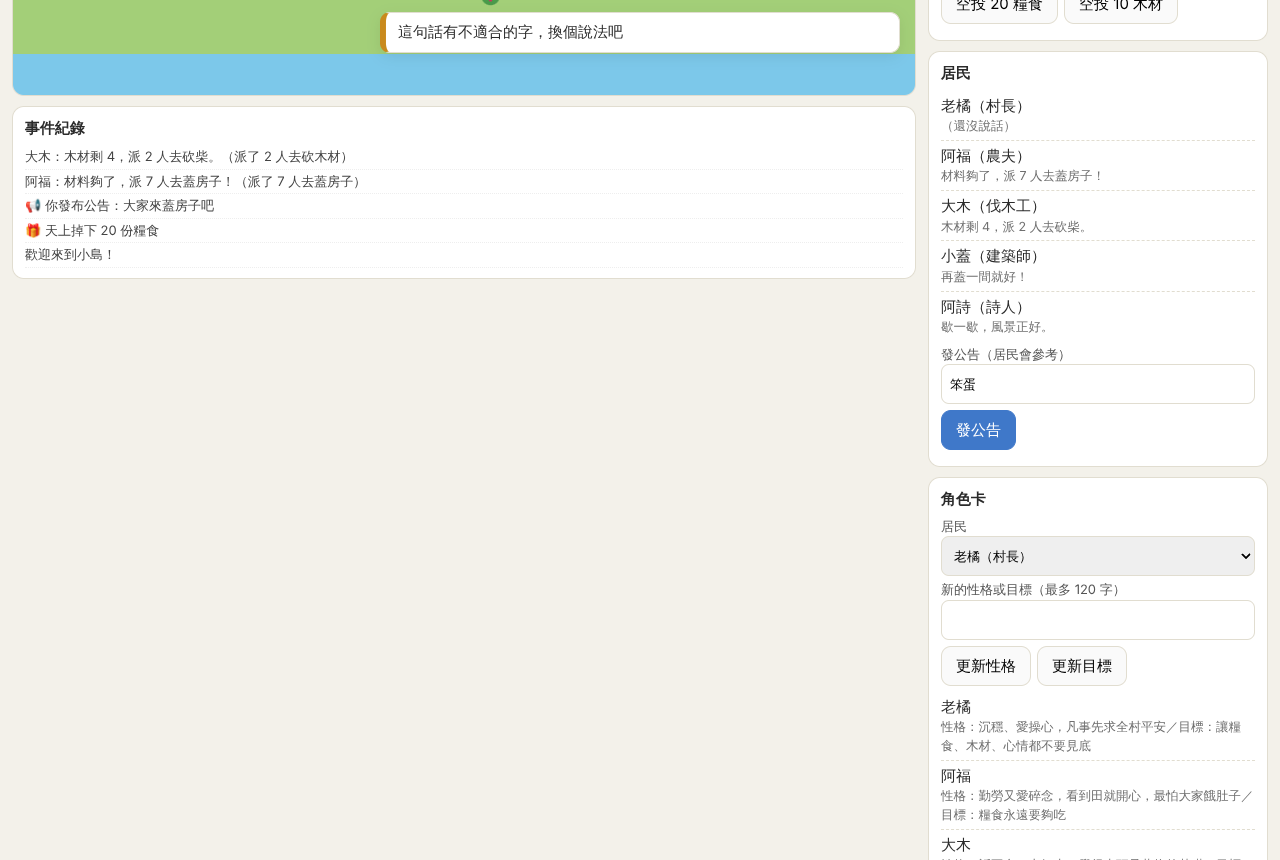
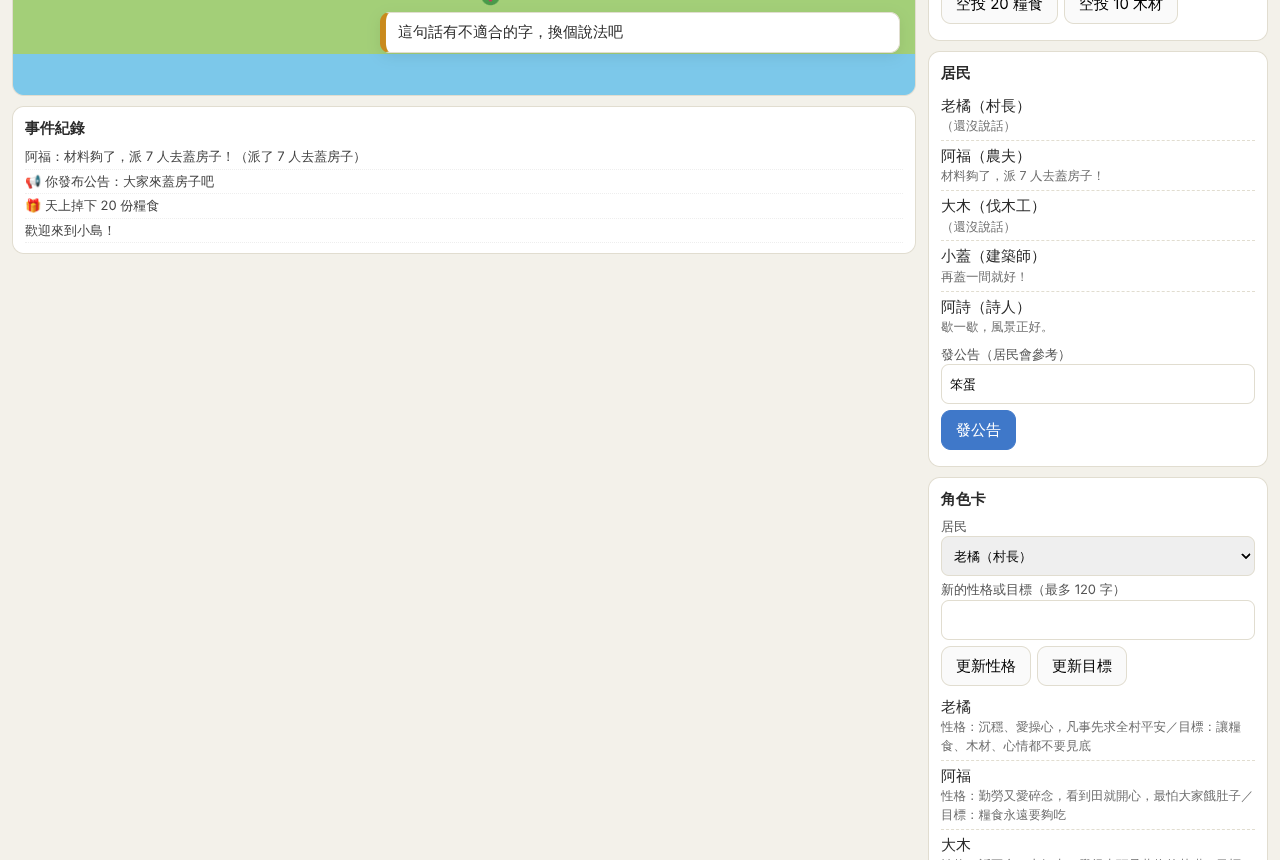
PR5（WP0b）：島嶼地圖成為預設；玩家移動（鍵盤、點地面）與地形碰撞、鏡頭跟隨、通用互動按鈕；居民的家、散步、打招呼
- src/shell/player.js：玩家移動、碰撞（沿岸滑動）、點到水裡時走到岸邊
- src/shell/input.js：方向鍵／WASD、點一下走過去（拖曳旋轉鏡頭不算）、空白鍵互動
- 外殼 HUD：走近有互動的實體就出現大按鈕（只靠 engine.interactionsFor），不能做時寫出原因
- render3d：鏡頭跟隨玩家（island.look.camera='overview' 時看全圖）、島上的家縮小、名牌不縮太小
- residents：家（home 實體）、在家附近散步、residents.greet（要走近才能打招呼）、居民位置存檔
- tests/e2e/island.e2e.mjs（6 項）：新的基準截圖

未修改 src/core。

Claude-Session: https://claude.ai/code/session_0121tRRF6aCKPvw8nQbVPqNZ

Changed region(s): [[0.0, 0.1512, 0.2812, 0.3023], [0.7188, 0.2419, 0.8438, 0.2721]]

diff --git a/src/modules/residents/index.js b/src/modules/residents/index.js
@@ -17,8 +17,8 @@ export default {
   requires: [],
   optional: ['social', 'quests-diary'],
   conflicts: [],
-  emits: ['residents:decided', 'residents:announced'],
-  config: { thinkEvery: 7, thinkJitter: 3, sayFor: 8, ring: null },
+  emits: ['residents:decided', 'residents:announced', 'residents:greeted'],
+  config: { thinkEvery: 7, thinkJitter: 3, sayFor: 8, ring: null, stroll: true, strollRadius: 2.5, greetDistance: 2 },
 
   init(ctx) {
     const { entities } = ctx.services;
@@ -37,8 +37,20 @@ export default {
     }));
     const byId = new Map(list.map((r) => [r.id, r]));
 
+    // 地形：居民散步時不走進水裡
+    const isl = ctx.data.island;
+    const walkable = (x, y) => {
+      const tx = Math.round(x), ty = Math.round(y);
+      if (!isl || tx < 0 || ty < 0 || tx >= isl.size.w || ty >= isl.size.h) return false;
+      return isl.legend[isl.terrain[ty][tx]]?.walkable !== false;
+    };
+
     function placeEntities() {
       entities.removeOwner('residents');
+      for (const r of list) {
+        const h = homes.get(r.id);
+        if (h) entities.add({ id: `home.${r.id}`, kind: 'home', owner: 'residents', ref: r.id, art: 'home', x: h.x, y: h.y, label: `${r.name}的家`, state: { roof: r.color } });
+      }
       list.forEach((r, i) => {
         // 站位：config.ring（圍成一圈，原型小鎮用）＞ 家門口 ＞ 出生點附近
         const ring = cfg.ring;
@@ -46,6 +58,7 @@ export default {
         const h = ring ? { x: ring.x + Math.cos(ang) * ring.rx, y: ring.y + Math.sin(ang) * ring.ry }
           : homes.has(r.id) ? { x: homes.get(r.id).x, y: homes.get(r.id).y + 0.9 }
           : { x: spawn.x + (i % 3) - 1, y: spawn.y + 1 + Math.floor(i / 3) };
+        r.anchor = { x: h.x, y: h.y };
         entities.add({ id: `resident.${r.id}`, kind: 'resident', owner: 'residents', ref: r.id, x: h.x, y: h.y, label: r.name,
           state: { color: r.color, role: r.role, look: r.look, model: r.model, say: '', busy: false } });
       });
@@ -53,6 +66,26 @@ export default {
     function syncEntity(r) {
       const e = entities.get(`resident.${r.id}`);
       if (e) { e.state.say = clock < r.sayUntil ? r.say : ''; e.state.busy = r.busy; }
+    }
+    // 散步：在家附近慢慢走（生活感）。打招呼後會停下來一會兒。
+    function stroll(r, dt) {
+      if (!cfg.stroll || cfg.ring || !r.anchor) return;
+      const e = entities.get(`resident.${r.id}`);
+      if (!e) return;
+      if (clock < (r.pauseUntil || 0)) return;
+      if (!r.walkTo) {
+        if (ctx.rng.chance(dt * 0.25)) {
+          for (let i = 0; i < 6; i++) {
+            const a = ctx.rng.next() * Math.PI * 2, d = ctx.rng.next() * cfg.strollRadius;
+            const x = r.anchor.x + Math.cos(a) * d, y = r.anchor.y + Math.sin(a) * d;
+            if (walkable(x, y)) { r.walkTo = { x, y }; break; }
+          }
+        }
+        return;
+      }
+      const dx = r.walkTo.x - e.x, dy = r.walkTo.y - e.y, dist = Math.hypot(dx, dy), step = 1.1 * dt;
+      if (dist <= step) { entities.move(e.id, r.walkTo.x, r.walkTo.y); r.walkTo = null; r.pauseUntil = clock + 2 + ctx.rng.next() * 4; }
+      else entities.move(e.id, e.x + (dx / dist) * step, e.y + (dy / dist) * step);
     }
     placeEntities();
 
@@ -92,12 +125,37 @@ export default {
         clock += dt;
         for (const r of list) {
           if (!r.busy && clock >= r.nextAt) think(r);
+          stroll(r, dt);
           syncEntity(r);
         }
       },
     });
 
     // ---------- 玩家指令 ----------
+    const near = (who) => {
+      const p = entities.get('player'), e = entities.get(`resident.${who}`);
+      return p && e ? Math.hypot(p.x - e.x, p.y - e.y) <= cfg.greetDistance : false;
+    };
+    const greetings = ctx.data.text?.dialogue?.greetings?.length ? ctx.data.text.dialogue.greetings : ['你好呀！'];
+    ctx.registerCommand({
+      id: 'residents.greet', label: '打招呼', description: '和身邊的居民打招呼',
+      params: { who: { type: 'ref', of: 'residents' } },
+      canRun: ({ who }) => (near(who) ? true : '走近一點才能打招呼'),
+      run({ who }) {
+        const r = byId.get(who);
+        const line = ctx.rng.chance(0.4) ? r.card.catchphrase || ctx.rng.pick(greetings) : ctx.rng.pick(greetings);
+        r.say = line; r.sayUntil = clock + cfg.sayFor;
+        r.walkTo = null; r.pauseUntil = clock + 6;
+        remember(r, 'talk', '玩家來跟我打招呼');
+        notify(`💬 ${r.name}：${line}`);
+        ctx.emit('residents:greeted', { who });
+        syncEntity(r);
+        return line;
+      },
+    });
+    ctx.registerEntityKind('resident', { label: '居民', interactions: [{ label: (e) => `和${e.label}打招呼`, command: 'residents.greet', args: (e) => ({ who: e.ref }) }] });
+    ctx.registerEntityKind('home', { label: '居民的家' });
+
     ctx.registerCommand({
       id: 'residents.announce', label: '發公告', description: '對全島居民說一句話，會影響他們接下來的想法',
       params: { text: { type: 'string', maxLen: 40, truncate: true, userText: true } },
@@ -153,7 +211,10 @@ export default {
     // ---------- 存檔 ----------
     ctx.registerSaveSlice({
       key: 'residents', version: 1,
-      serialize: () => ({ clock, list: list.map((r) => ({ id: r.id, card: r.card, memory: r.memory, say: r.say, sayUntil: r.sayUntil, nextAt: r.nextAt })) }),
+      serialize: () => ({ clock, list: list.map((r) => {
+        const e = entities.get(`resident.${r.id}`);
+        return { id: r.id, card: r.card, memory: r.memory, say: r.say, sayUntil: r.sayUntil, nextAt: r.nextAt, pos: e ? { x: e.x, y: e.y } : null };
+      }) }),
       deserialize: (d) => {
         clock = Number(d?.clock) || 0;
         for (const s of d?.list || []) {
@@ -162,6 +223,7 @@ export default {
           Object.assign(r.card, s.card || {});
           r.memory = Array.isArray(s.memory) ? s.memory.slice(-MEMORY_MAX) : [];
           r.say = s.say || ''; r.sayUntil = s.sayUntil || 0; r.nextAt = s.nextAt ?? r.nextAt;
+          if (Number.isFinite(s.pos?.x) && Number.isFinite(s.pos?.y) && walkable(s.pos.x, s.pos.y)) entities.move(`resident.${r.id}`, s.pos.x, s.pos.y);
         }
       },
     });

diff --git a/src/shell/boot.js b/src/shell/boot.js
@@ -9,6 +9,8 @@
 import { Engine, FrameworkError, validatePack, loadPack, parseOverrides, resolveEnabled, createCoreServices } from '../core/index.js';
 import { createStorage } from './storage.js';
 import { createPanelHost, toast, log, showFatal } from './ui.js';
+import { createPlayerController } from './player.js';
+import { attachInput } from './input.js';
 
 const $ = (id) => document.getElementById(id);
 const params = new URLSearchParams(location.search);
@@ -169,12 +171,13 @@ async function boot() {
   const { createRenderer2D } = await import('../render2d/index.js');
   const views = { '2d': createRenderer2D($('view2d'), { data, services }), '3d': null };
   const lowPower = params.get('lowpower') === '1' || (navigator.hardwareConcurrency || 8) <= 4;
+  const follow = data.island.look?.camera === 'overview' ? null : 'player';
   let current = '2d';
   const setView = async (name) => {
     if (name === '3d' && !views['3d']) {
       try {
         const { createRenderer3D } = await import('../render3d/index.js');
-        views['3d'] = await createRenderer3D($('view3d'), { data, services, lowPower });
+        views['3d'] = await createRenderer3D($('view3d'), { data, services, lowPower, follow });
       } catch (e) {
         log(`⚠ 3D 畫面無法啟動（${e.message || e}），已改用 2D。可能是這台裝置不支援 WebGL。`);
         name = '2d';
@@ -270,12 +273,53 @@ async function boot() {
   // 模組錯誤 → 事件紀錄（白話）；指令被拒 → 不吵，按鈕旁已有原因
   engine.events.on('core:dayStarted', (d) => { if (!d.offline) log(`🌅 第 ${d.day} 天開始了`); });
 
+  // 9.5 玩家操控與「互動」按鈕（只靠 engine.interactionsFor，新模組不必改這裡）
+  const player = createPlayerController({ entities, island: data.island });
+  const REACH = 2.2;
+  let hudKey = '', hudItems = [];
+  const nearbyInteractions = () => {
+    const p = entities.get('player');
+    if (!p) return [];
+    const out = [];
+    for (const e of entities.near(p.x, p.y, REACH, { filter: (x) => x.id !== 'player' })) {
+      for (const it of engine.interactionsFor(e.id)) out.push({ ...it, entity: e.id });
+      if (out.length >= 4) break;
+    }
+    return out.slice(0, 4);
+  };
+  const runInteraction = (it) => {
+    const r = engine.runCommand(it.command, it.args);
+    if (!r.ok) toast(r.reason || r.error, 'warn');
+    hudKey = ''; refreshPanels(true);
+  };
+  const refreshHud = () => {
+    hudItems = nearbyInteractions();
+    const key = JSON.stringify(hudItems.map((x) => [x.label, x.ok, x.reason]));
+    if (key === hudKey) return;
+    hudKey = key;
+    const hud = $('hud'); hud.textContent = '';
+    for (const it of hudItems) {
+      const b = document.createElement('button');
+      b.className = it.ok ? 'primary big' : 'big';
+      b.textContent = it.ok ? it.label : `${it.label}（${it.reason}）`;
+      b.onclick = () => runInteraction(it);
+      hud.append(b);
+    }
+  };
+  attachInput({
+    stage: $('stage'), player,
+    toWorld: (x, y) => views[current].toWorld(x, y),
+    onInteract: () => { const it = hudItems.find((x) => x.ok); if (it) runInteraction(it); },
+  });
+
   // 10. 主迴圈
-  let last = performance.now();
+  let last = performance.now(), lastHud = 0;
   const frame = (now) => {
     const dt = Math.min(0.1, (now - last) / 1000); last = now;
     let rem = time.advance(dt);
     while (rem > 0) { const s = Math.min(rem, 0.25); engine.update(s); rem -= s; }
+    player.update(dt);
+    if (now - lastHud > 200) { lastHud = now; refreshHud(); }
     try { views[current].render(dt); } catch (e) { debug.errors.push(e.message); }
     refreshPanels();
     if (time.elapsed - lastSave > AUTOSAVE_SEC) saveNow();
@@ -285,7 +329,7 @@ async function boot() {
   requestAnimationFrame(frame);
 
   Object.assign(debug, {
-    status: 'running', engine, services, data, views, get view() { return current; }, setView, storage, notices, saveNow, isNew,
+    status: 'running', engine, services, data, views, player, hud: () => hudItems, get view() { return current; }, setView, storage, notices, saveNow, isNew,
     snapshot: () => ({ day: time.day, minute: Math.round(time.minuteOfDay), modules: engine.enabledModules(), entities: entities.all().length, bag: inventory.list('player') }),
   });
 }

diff --git a/src/render3d/index.js b/src/render3d/index.js
@@ -188,7 +188,7 @@ function makeUnknown() {
 const KIND_PRESET = { tree: 'tree_pine', bush: 'bush_berry', rock: 'rock', forage: 'shell', home: 'home', station: 'station', plot: 'plot' };
 
 // ---------- 主函式 ----------
-export async function createRenderer3D(canvas, { data, services, lowPower = false }) {
+export async function createRenderer3D(canvas, { data, services, lowPower = false, follow = null }) {
   const { entities, time } = services;
   const isl = data.island;
   const W = isl.size.w, H = isl.size.h;
@@ -209,7 +209,11 @@ export async function createRenderer3D(canvas, { data, services, lowPower = fals
 
   const span = Math.max(W, H) * TILE;
   const camera = new THREE.PerspectiveCamera(42, 4 / 3, 0.5, 400);
-  const CAM_POS = new THREE.Vector3(0, span * 0.58, span * 0.7), CAM_TARGET = new THREE.Vector3(0, 0, 2);
+  // follow：鏡頭跟著某個實體（通常是玩家），否則看整張地圖
+  const followEnt = () => (follow ? entities.get(follow) : null);
+  const fe0 = followEnt();
+  const CAM_TARGET = fe0 ? new THREE.Vector3(wx(fe0.x), 0, wz(fe0.y)) : new THREE.Vector3(0, 0, 2);
+  const CAM_POS = fe0 ? CAM_TARGET.clone().add(new THREE.Vector3(0, 24, 28)) : new THREE.Vector3(0, span * 0.58, span * 0.7);
   camera.position.copy(CAM_POS);
   const controls = new OrbitControls(camera, canvas);
   controls.target.copy(CAM_TARGET);
@@ -314,6 +318,7 @@ export async function createRenderer3D(canvas, { data, services, lowPower = fals
         const i = e.state?.index ?? houseSeq++;
         rec.part = makeHouse(i);
         root.rotation.y = p === 'house' ? Math.atan2(-wx(e.x), -wz(e.y)) : 0;
+        if (p === 'home') { rec.part.scale.setScalar(0.72); rec.part.position.z = -0.4; } // 島上的家佔一格，比原型的房子小一點
         rec.born = clock.t; root.scale.setScalar(p === 'house' ? 0.01 : 1);
         break;
       }
@@ -375,7 +380,7 @@ export async function createRenderer3D(canvas, { data, services, lowPower = fals
   const fit = (sp) => {
     if (!sp || !sp.visible || !sp.userData.base) return;
     sp.getWorldPosition(tmp);
-    const k = THREE.MathUtils.clamp(camera.position.distanceTo(tmp) / 45, 0.4, 1.7);
+    const k = THREE.MathUtils.clamp(camera.position.distanceTo(tmp) / 45, follow ? 0.75 : 0.4, 1.7); // 跟隨鏡頭比較近，名牌不要縮太小
     sp.scale.set(sp.userData.base.w * k, sp.userData.base.h * k, 1);
   };
 
@@ -437,6 +442,12 @@ export async function createRenderer3D(canvas, { data, services, lowPower = fals
       fit(rec.label); fit(rec.bubble);
     }
 
+    const fe = followEnt();
+    if (fe) { // 鏡頭平滑跟隨：目標與相機一起平移，保留玩家自己轉的角度
+      const dx = wx(fe.x) - controls.target.x, dz = wz(fe.y) - controls.target.z, k = Math.min(1, frameDt * 4);
+      controls.target.x += dx * k; controls.target.z += dz * k;
+      camera.position.x += dx * k; camera.position.z += dz * k;
+    }
     controls.update();
     renderer.render(scene, camera);
   }
@@ -445,7 +456,12 @@ export async function createRenderer3D(canvas, { data, services, lowPower = fals
     name: '3d',
     render,
     resize,
-    resetCamera() { camera.position.copy(CAM_POS); controls.target.copy(CAM_TARGET); controls.update(); },
+    resetCamera() {
+      const fe = followEnt();
+      if (fe) { controls.target.set(wx(fe.x), 0, wz(fe.y)); camera.position.copy(controls.target).add(new THREE.Vector3(0, 24, 28)); }
+      else { camera.position.copy(CAM_POS); controls.target.copy(CAM_TARGET); }
+      controls.update();
+    },
     // 螢幕座標 → 格子座標（點地面移動用）：射線打到 y=0 平面
     toWorld(clientX, clientY) {
       const r = canvas.getBoundingClientRect();

diff --git a/src/shell/player.js b/src/shell/player.js
@@ -1,0 +1,64 @@
+// 玩家移動：鍵盤（方向鍵、WASD）、點地面走過去（平板），以及地形碰撞（不能走進水裡）。
+// 只改核心實體表裡 id 為 player 的實體位置。用真實時間移動，所以時間暫停時仍可以走動。
+
+const SPEED = 3.2;   // 每秒幾格
+const RADIUS = 0.3;  // 玩家的半徑（格）
+
+export function createPlayerController({ entities, island, id = 'player' }) {
+  const W = island.size.w, H = island.size.h;
+  const walkableAt = (x, y) => {
+    const tx = Math.floor(x + 0.5), ty = Math.floor(y + 0.5);
+    if (tx < 0 || ty < 0 || tx >= W || ty >= H) return false;
+    return island.legend[island.terrain[ty][tx]]?.walkable !== false;
+  };
+  // 玩家身體四個角都要在可走的地上
+  const free = (x, y) => walkableAt(x - RADIUS, y - RADIUS) && walkableAt(x + RADIUS, y - RADIUS) && walkableAt(x - RADIUS, y + RADIUS) && walkableAt(x + RADIUS, y + RADIUS);
+
+  let dir = { x: 0, y: 0 }, target = null;
+  const api = {
+    walkableAt, free,
+    setDirection(dx, dy) { dir = { x: dx, y: dy }; if (dx || dy) target = null; },
+    // 點地面：目標在水裡時，走到最接近的岸邊（沿直線找最後一個可走點）
+    setTarget(x, y) {
+      const p = entities.get(id);
+      if (!p) return false;
+      let tx = x, ty = y;
+      if (!free(tx, ty)) {
+        const steps = 40;
+        let best = null;
+        for (let i = 1; i <= steps; i++) {
+          const k = i / steps, cx = p.x + (x - p.x) * k, cy = p.y + (y - p.y) * k;
+          if (free(cx, cy)) best = { x: cx, y: cy }; else if (best) break;
+        }
+        if (!best) return false;
+        tx = best.x; ty = best.y;
+      }
+      target = { x: tx, y: ty };
+      return true;
+    },
+    get target() { return target; },
+    get moving() { return !!target || !!(dir.x || dir.y); },
+    update(dt) {
+      const p = entities.get(id);
+      if (!p || !(dt > 0)) return;
+      let vx = dir.x, vy = dir.y;
+      if (!vx && !vy && target) {
+        const dx = target.x - p.x, dy = target.y - p.y, d = Math.hypot(dx, dy);
+        if (d < 0.05) { target = null; return; }
+        vx = dx / d; vy = dy / d;
+        if (d < SPEED * dt) { vx *= d / (SPEED * dt); vy *= d / (SPEED * dt); }
+      }
+      const len = Math.hypot(vx, vy);
+      if (!len) return;
+      if (len > 1) { vx /= len; vy /= len; }
+      const step = SPEED * dt;
+      let nx = p.x + vx * step, ny = p.y + vy * step;
+      // 分開檢查兩個方向，撞牆時可以沿著岸邊滑動
+      if (!free(nx, p.y)) nx = p.x;
+      if (!free(nx, ny)) ny = p.y;
+      if (nx === p.x && ny === p.y) target = null; // 完全卡住就放棄目標
+      entities.move(id, nx, ny);
+    },
+  };
+  return api;
+}

diff --git a/src/shell/input.js b/src/shell/input.js
@@ -1,0 +1,31 @@
+// 輸入：鍵盤方向鍵／WASD，以及在畫面上「點一下」走過去。
+// 拖曳（旋轉 3D 鏡頭）不算點一下：按下到放開不超過 300 毫秒、移動不超過 8 像素才算。
+const KEYS = { ArrowUp: [0, -1], KeyW: [0, -1], ArrowDown: [0, 1], KeyS: [0, 1], ArrowLeft: [-1, 0], KeyA: [-1, 0], ArrowRight: [1, 0], KeyD: [1, 0] };
+
+export function attachInput({ stage, player, toWorld, onInteract }) {
+  const down = new Set();
+  const typing = () => ['INPUT', 'TEXTAREA', 'SELECT'].includes(document.activeElement?.tagName);
+  const apply = () => {
+    let x = 0, y = 0;
+    for (const k of down) { x += KEYS[k][0]; y += KEYS[k][1]; }
+    player.setDirection(x, y);
+  };
+  addEventListener('keydown', (e) => {
+    if (typing()) return;
+    if (KEYS[e.code]) { down.add(e.code); apply(); e.preventDefault(); }
+    else if ((e.code === 'Space' || e.code === 'KeyE') && onInteract) { onInteract(); e.preventDefault(); }
+  });
+  addEventListener('keyup', (e) => { if (down.delete(e.code)) apply(); });
+  addEventListener('blur', () => { down.clear(); apply(); });
+
+  let press = null;
+  stage.addEventListener('pointerdown', (e) => { if (e.isPrimary) press = { x: e.clientX, y: e.clientY, t: performance.now() }; });
+  stage.addEventListener('pointerup', (e) => {
+    if (!press || !e.isPrimary) return;
+    const quick = performance.now() - press.t < 300 && Math.hypot(e.clientX - press.x, e.clientY - press.y) < 8;
+    press = null;
+    if (!quick || e.target.closest('button')) return;
+    const p = toWorld(e.clientX, e.clientY);
+    if (p) player.setTarget(p.x, p.y);
+  });
+}

diff --git a/index.html b/index.html
@@ -22,6 +22,8 @@
   #stage canvas { position:absolute; inset:0; width:100%; height:100%; display:block; }
   #hud { position:absolute; left:10px; right:10px; bottom:10px; display:flex; gap:8px; justify-content:center; flex-wrap:wrap; pointer-events:none; }
   #hud > * { pointer-events:auto; }
+  button.big { min-height:52px; font-size:17px; padding:8px 18px; border-radius:14px; box-shadow:0 3px 10px rgba(0,0,0,.15); }
+  #help { position:absolute; left:10px; top:10px; background:rgba(255,255,255,.85); border-radius:10px; padding:4px 10px; font-size:13px; color:#445; pointer-events:none; }
   .panel { background:var(--card); border:1px solid var(--line); border-radius:12px; padding:10px 12px; margin-bottom:10px; }
   .panel h2 { margin:0 0 6px; font-size:15px; }
   .p-text { margin:4px 0; color:#444; }
@@ -64,6 +66,7 @@
       <div id="loading">小島準備中…</div>
       <canvas id="view2d" style="display:none"></canvas>
       <canvas id="view3d" style="display:none; cursor:grab"></canvas>
+      <div id="help">點地面走過去，或用方向鍵／WASD。走近居民就能打招呼（空白鍵）。</div>
       <div id="hud"></div>
     </div>
     <div class="panel" style="margin-top:10px">
